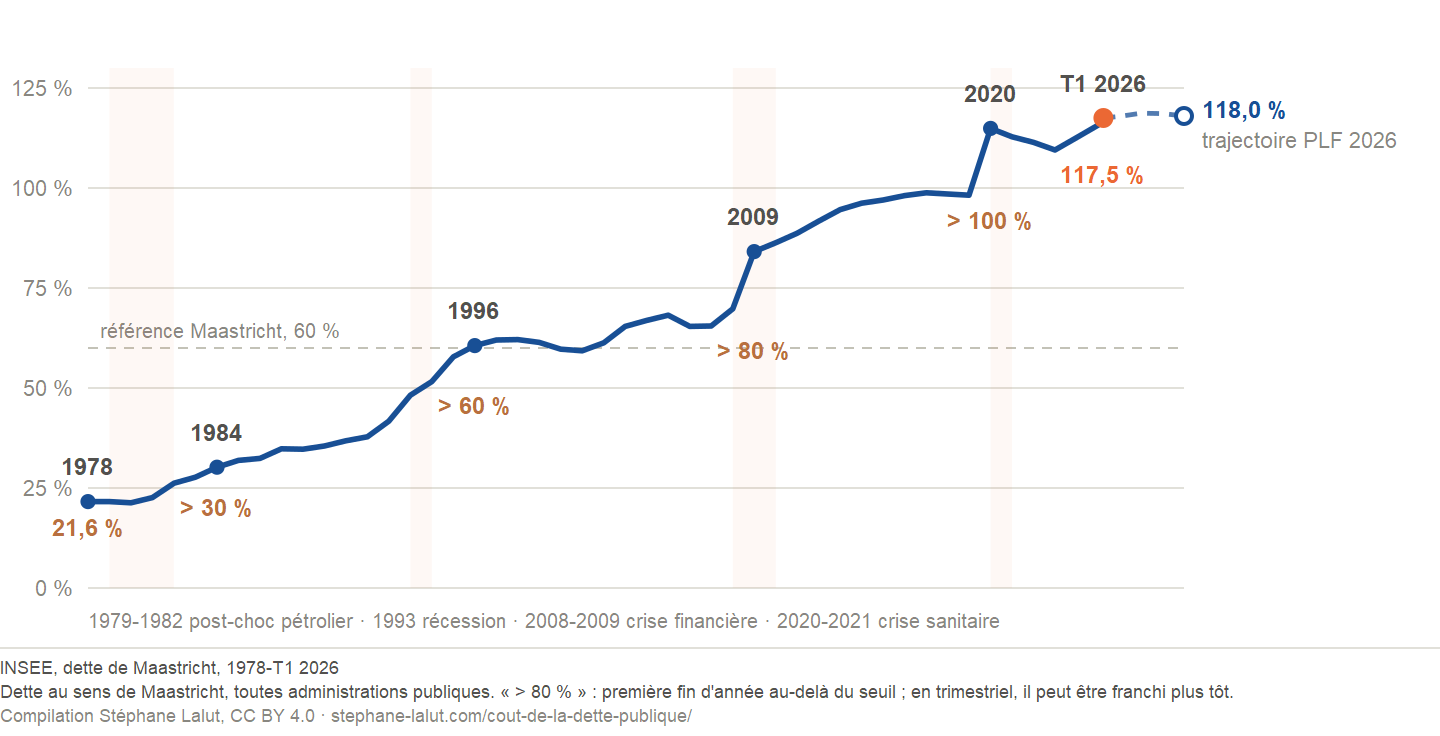
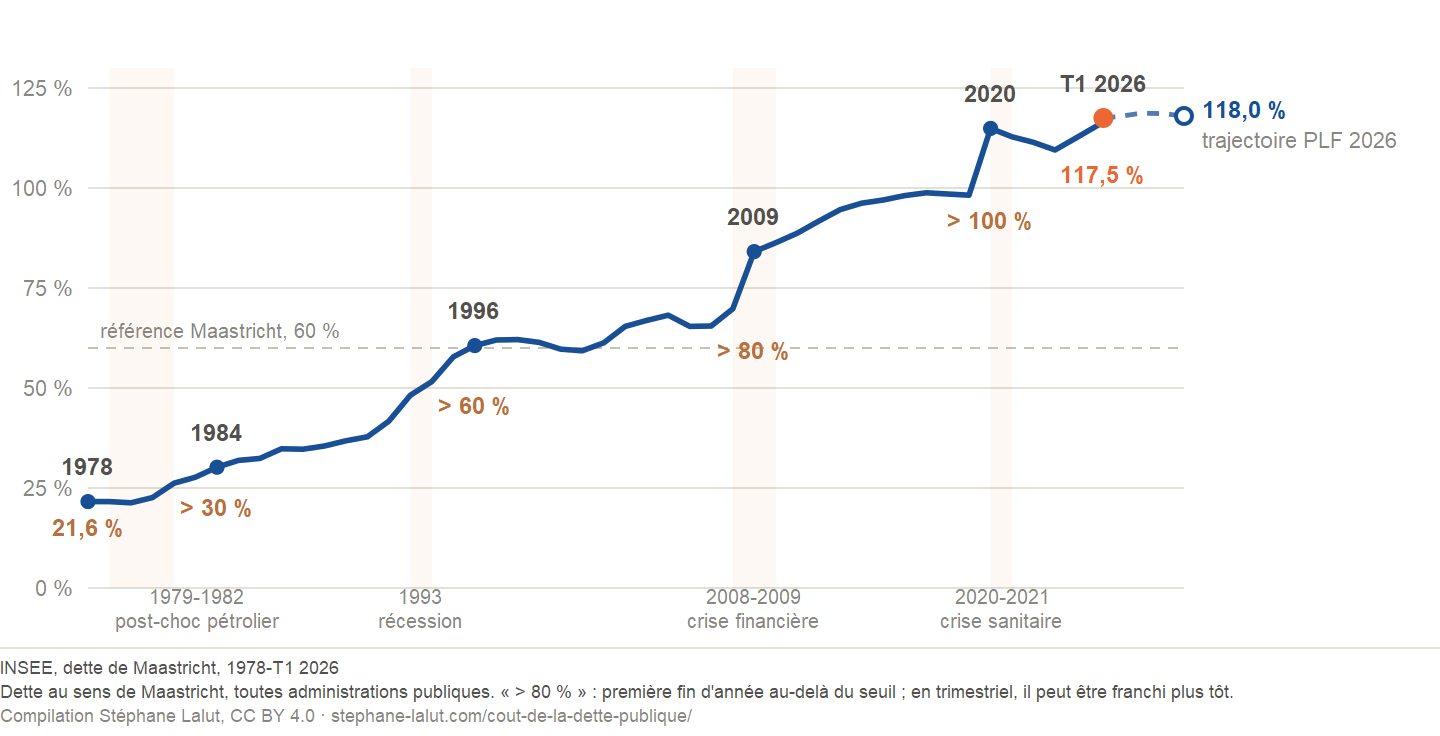
style(dette): chaque libelle sous sa bande, en deux lignes ; charte inscrite dans le depot
FIGURE : la legende des bandes etait une ligne unique en pied, qui ne disait
pas quelle bande portait quel mot. Chaque libelle est desormais centre sous
SA bande, periode au-dessus, intitule en dessous, avec bornage pour qu'un
libelle de bord ne sorte pas du cadre.

REGLES : la charte graphique devient une CONSTANTE du depot (CLAUDE.md,
section « Figures de donnees ») et une memoire de projet -- couleurs
semantiques et deux couleurs de donnees au maximum, grille horizontale
seule, etiquetage direct, valeur terminale en ancrage, points de meme
diametre, etiquette centree sur son point, libelle de bande sous elle en
deux lignes, cartouche dans l'image, phrases qualitatives verifiees par le
generateur. Toute teinte nouvelle passe validate_palette.js.

S'y ajoute une regle de methode, payee cher aujourd'hui : avant de corriger
une mise en page, MESURER -- une propriete calculee vaut mieux que trois
hypotheses.

Changed region(s): [[0.0625, 0.7812, 0.75, 0.875]]

diff --git a/scripts/update_dette_insee.py b/scripts/update_dette_insee.py
@@ -1362,12 +1362,23 @@ def build_svg_longue(annuel: dict, pct_courant: float, label_courant: str,
 
     # LEGENDE des bandes, sous l'axe : une figure reprise seule doit dire ce que
     # ses zones grisees signifient. Ordre chronologique, gris, une seule ligne.
-    lg = [(per, (lf if lang == "fr" else le))
-          for a1b, a2b, lf, le, per in CRISES if a2b >= x0 and a1b <= x1]
-    if lg:
-        bouts = ["%s %s" % (per, lib) for per, lib in lg]
-        e.append('<text x="%.1f" y="%.1f" font-family="%s" font-size="%d" fill="%s">%s</text>'
-                 % (ml, h - 6, FONT, TY_MINEUR - 1, MUTED, _esc("  ·  ".join(bouts))))
+    # Chaque libelle sous SA bande, sur deux lignes : periode au-dessus, intitule
+    # en dessous (auteur, 28/09). Une ligne unique en pied ne disait pas quelle
+    # bande portait quel mot ; ici le libelle est centre sur la bande qu'il nomme.
+    for a1b, a2b, lf, le, per in CRISES:
+        if a2b < x0 or a1b > x1:
+            continue
+        cx = (X(max(a1b, x0)) + X(min(a2b, x1))) / 2
+        lib = lf if lang == "fr" else le
+        # bornage : un libelle centre sur une bande de bord sortirait du cadre
+        demi = 0.29 * (TY_MINEUR - 1) * max(len(lib), len(per))
+        cx = min(max(cx, ml + demi), w - mr - demi)
+        e.append('<text x="%.1f" y="%.1f" font-family="%s" font-size="%d" fill="%s" '
+                 'text-anchor="middle">%s</text>'
+                 % (cx, h - 18, FONT, TY_MINEUR - 1, MUTED, _esc(per)))
+        e.append('<text x="%.1f" y="%.1f" font-family="%s" font-size="%d" fill="%s" '
+                 'text-anchor="middle">%s</text>'
+                 % (cx, h - 6, FONT, TY_MINEUR - 1, MUTED, _esc(lib)))
 
     src = LABELS_CARTOUCHE[lang]["src_longue"]
     e += cartouche(w, h + 4, src % (ans[0], label_courant), "longue", lang)

diff --git a/CLAUDE.md b/CLAUDE.md
@@ -128,6 +128,29 @@ la première garde). La CI utilise `hugo --minify` sans `--quiet` : ne pas chang
 Et un garde-fou se **teste par mutation réelle puis restauration**, jamais par relecture
 du code.
 
+## Figures de données — constantes, et une règle de méthode
+
+La charte graphique complète (couleurs sémantiques, grille, étiquetage, jalons, bandes, cartouche,
+contrôles) est une **constante de l'auteur** arrêtée le 2026-09-28 : mémoire
+`feedback_langage_graphique_figures`. Elle s'applique aux deux générateurs de ce dépôt
+(`update_dette_insee.py`, `generer_figures_qui_paie.py`) sans être rediscutée figure par figure.
+Trois points en tiennent lieu de rappel : **deux couleurs de données au maximum** et la même
+grandeur toujours de la même couleur ; **toute étiquette centrée sur le point qu'elle désigne** ;
+**le libellé d'une bande d'événement se pose sous elle, en deux lignes** — période, puis intitulé.
+
+⚠ **Une teinte nouvelle passe `validate_palette.js` avant d'être appliquée.** Le bleu marine du site
+(`#1B2A4E`) y échoue comme couleur de données : chroma trop faible, il lit gris. C'est ainsi que le
+bleu profond `#184f95` a été retenu — sur mesure, non par goût.
+
+### Avant de corriger une mise en page, MESURER
+
+Le 2026-09-28, trois correctifs CSS successifs ont été livrés et déployés contre un défaut supposé
+— un retour à la ligne de la barre du dossier — qui **n'existait pas** : trente secondes dans le
+navigateur (`window.innerWidth`, `getComputedStyle(...).gridTemplateAreas`) ont montré une grille à
+une seule rangée et un simple désalignement optique. **Une propriété calculée vaut mieux que trois
+hypothèses.** Quand un symptôme visuel résiste à une correction, la suivante ne s'écrit pas : on
+relève d'abord la valeur calculée, ou l'on demande la capture d'inspecteur.
+
 ## Conventions de contenu
 
 ### Typographie française — règle de site (auteur, 2026-09-20)
